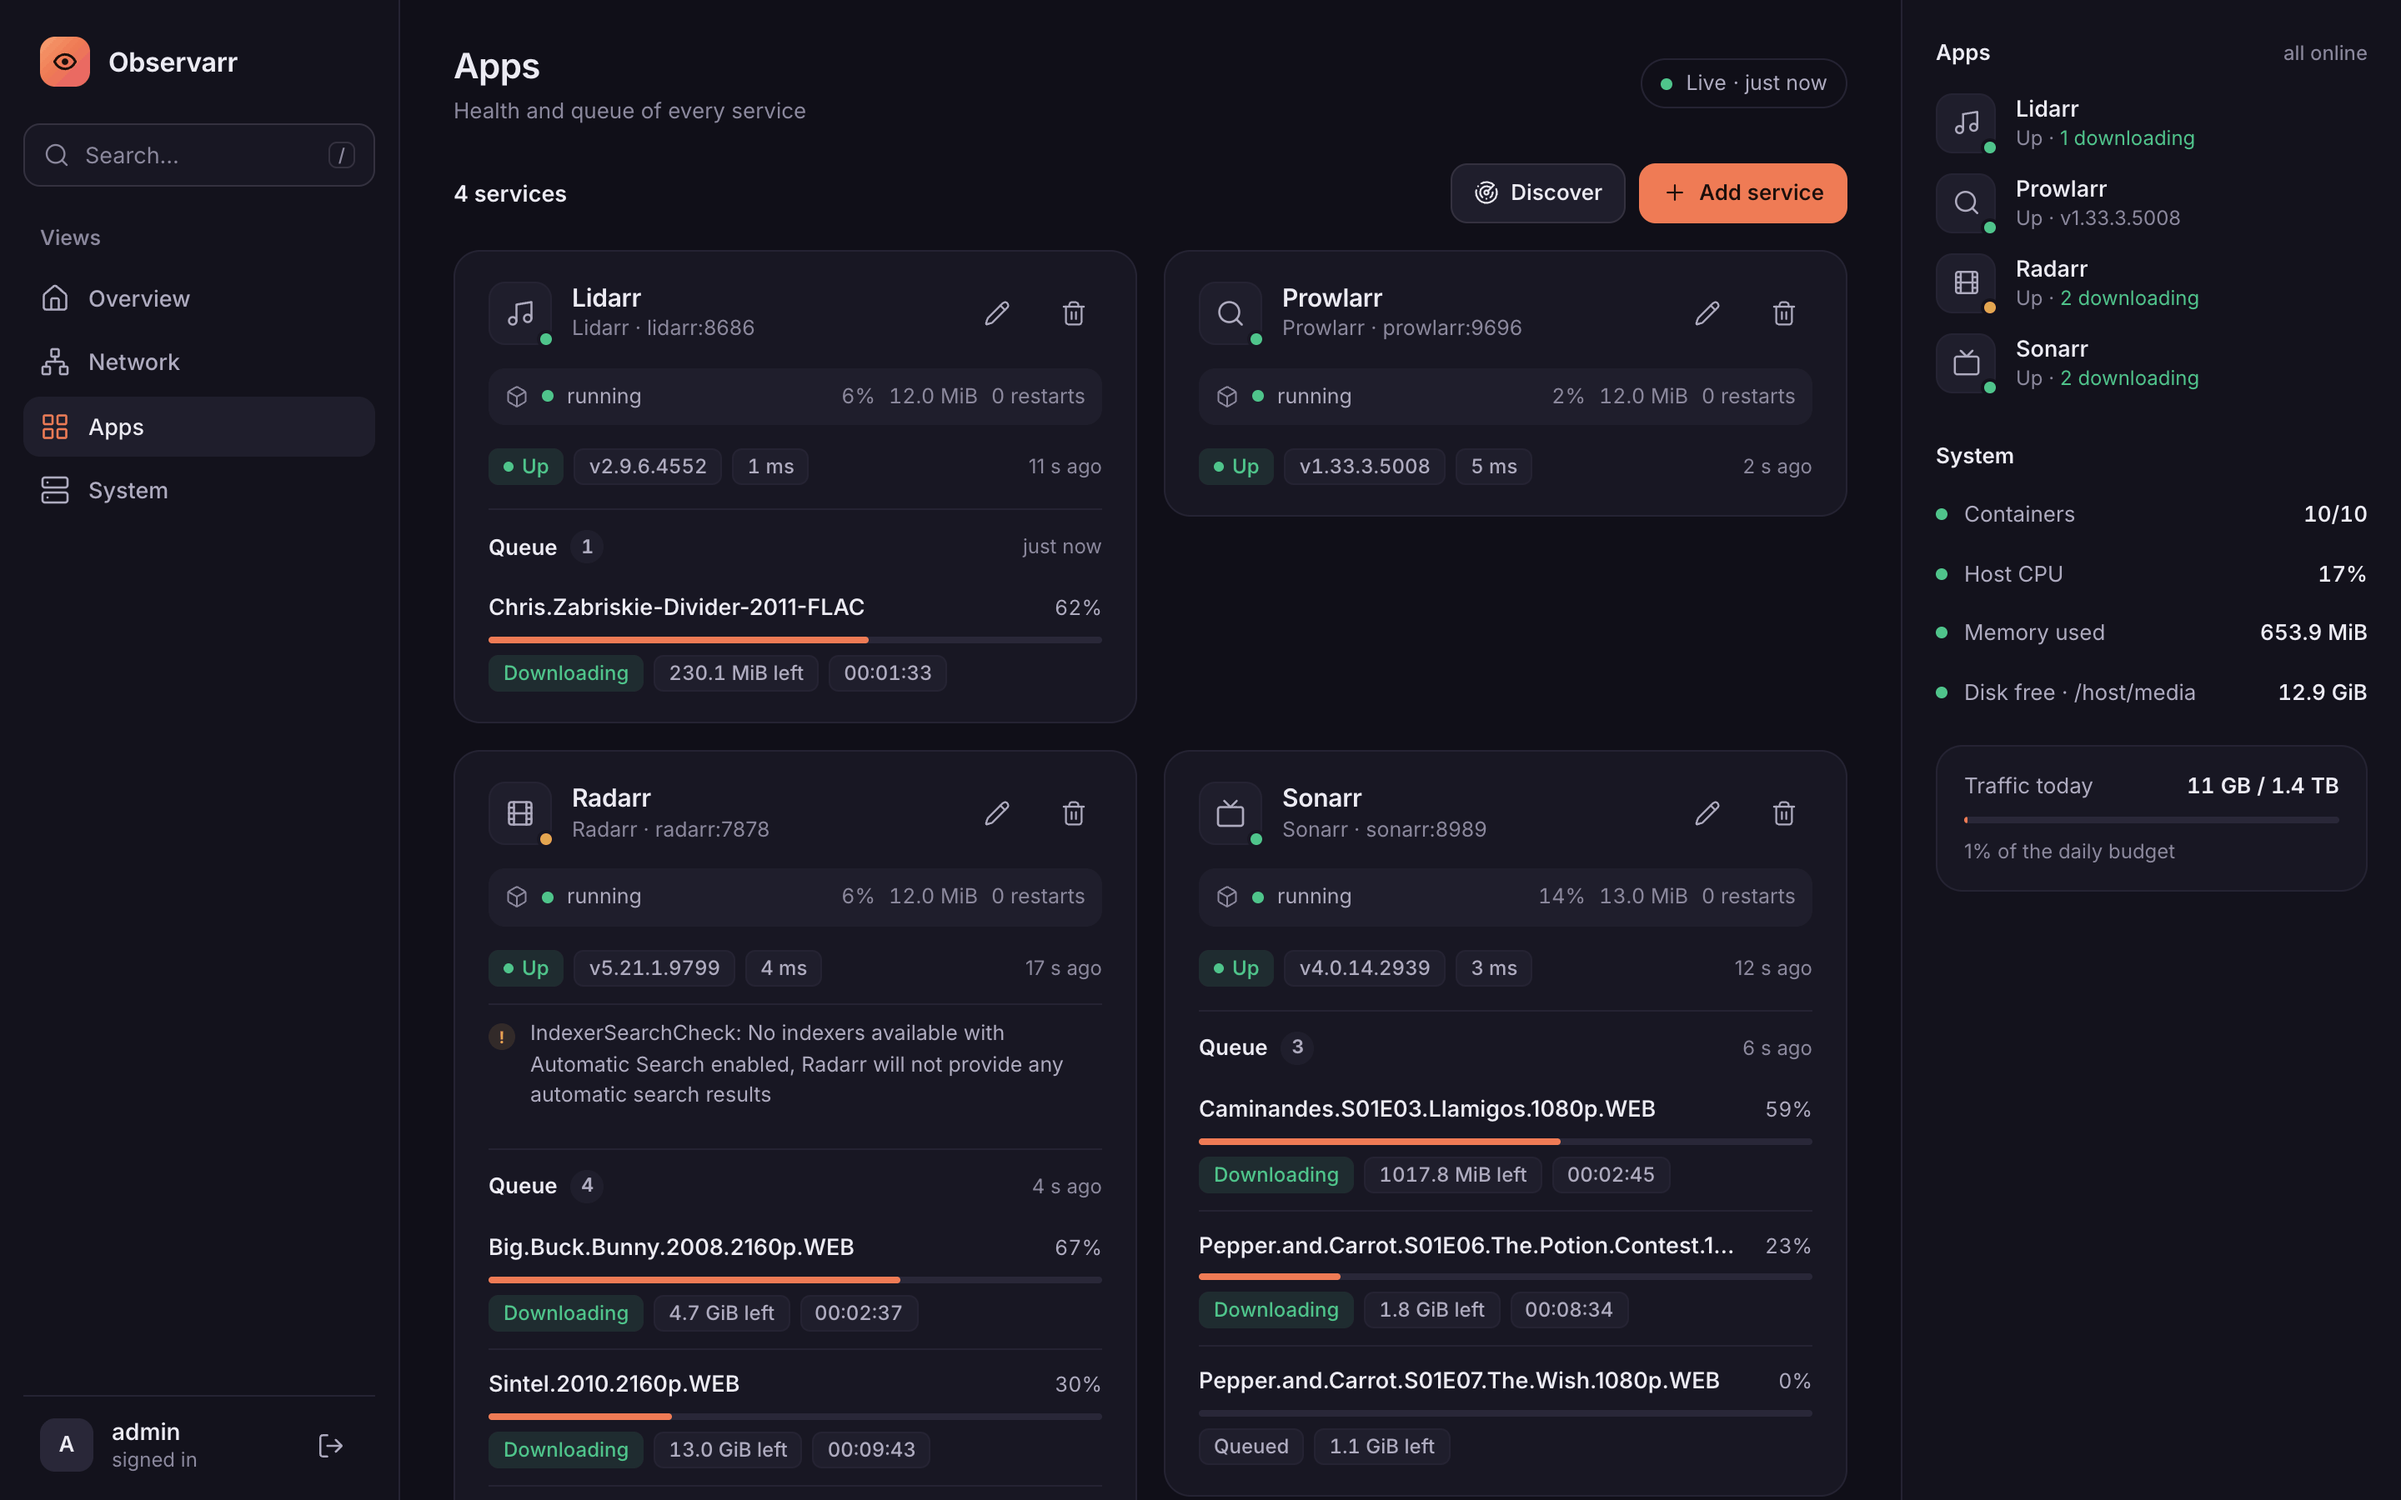
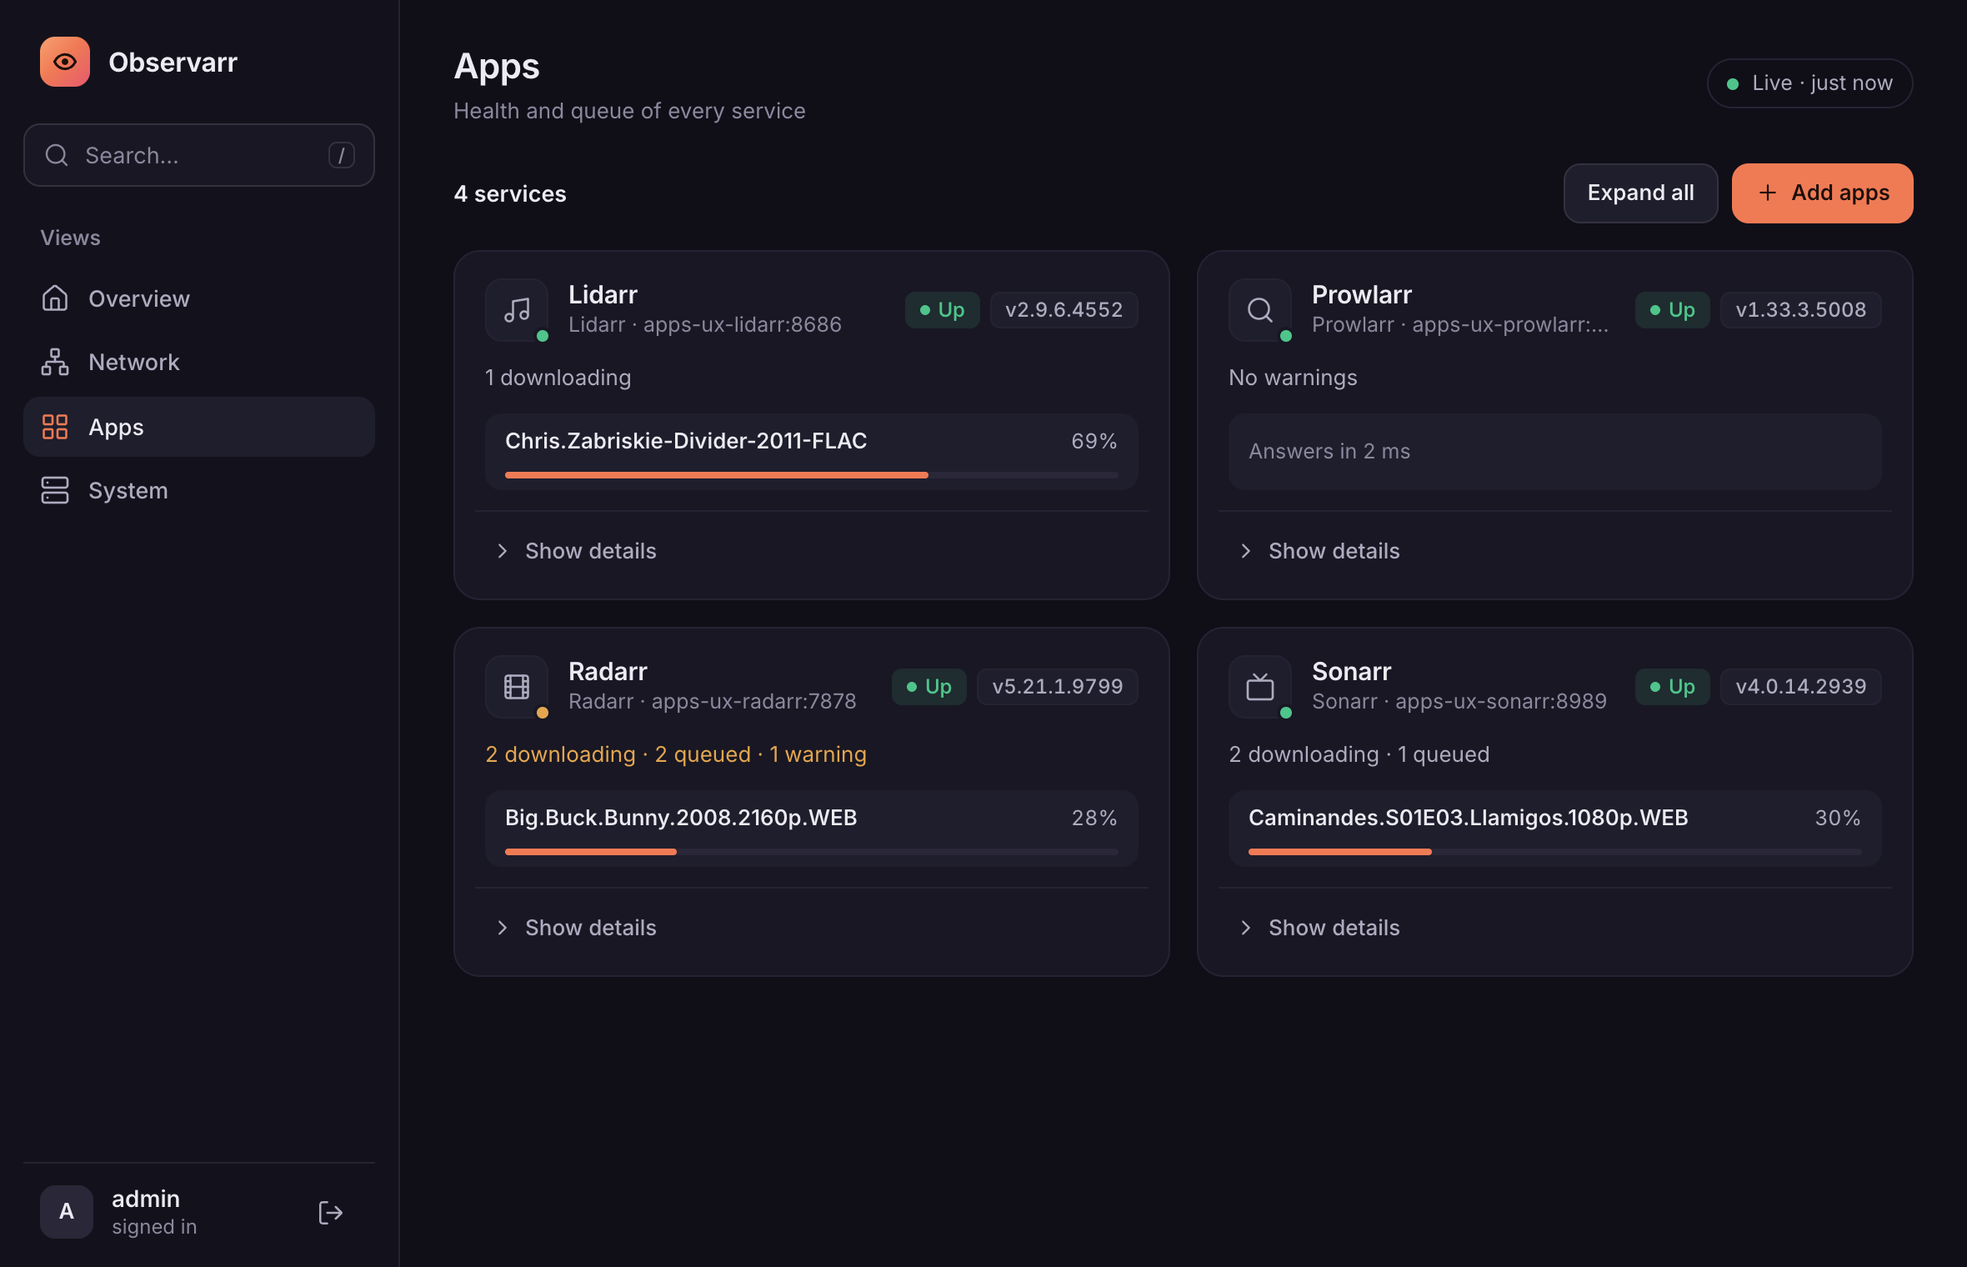
docs: describe the Add apps page and the collapsible cards

diff --git a/README.md b/README.md
@@ -17,8 +17,9 @@ and its containers are doing — all from one small container. Status: early dev
 
 ## Features
 
-- **Discovery that asks first.** Suggests apps from a network scan, Prowlarr's linked apps, mounted config
-  folders or running Docker containers — nothing is added until you review a suggestion and click Add.
+- **Finds your apps, asks first.** Lists the apps it sees on the server — Docker containers and mounted config
+  folders — the moment you open it, without contacting any of them; on request it also scans your network or
+  asks Prowlarr for its linked apps. Nothing is added, and no app is contacted, until you click "Test & add".
 - **Overview at a glance:** live download and upload with the apps moving the most traffic, services up,
   active downloads, host CPU and memory, and one list of everything that needs attention — down services,
   health warnings, stuck downloads.
@@ -42,26 +43,26 @@ and its containers are doing — all from one small container. Status: early dev
 <table>
   <tr>
     <td width="50%"><img src="docs/images/network.png" alt="Network view: download, upload, today's total and top-now tiles, a mirrored stacked chart of where the traffic goes per container over the last five minutes, a By app table and a daily budget gauge"></td>
-    <td width="50%"><img src="docs/images/apps.png" alt="Apps view: cards for Lidarr, Prowlarr, Radarr and Sonarr, each with its container's state and usage, health and version, a Radarr health warning, and download queues led by Big Buck Bunny with progress, size left and ETA"></td>
+    <td width="50%"><img src="docs/images/apps.png" alt="Apps view: four equal-height collapsed cards for Lidarr, Prowlarr, Radarr and Sonarr, each with Up and version chips, a summary line such as 2 downloading, 2 queued, 1 warning, and its leading download with progress"></td>
   </tr>
   <tr>
     <td align="center"><sub>Network: where the traffic goes, by app</sub></td>
-    <td align="center"><sub>Apps: health, queue and container of every service</sub></td>
+    <td align="center"><sub>Apps: one collapsible card per service</sub></td>
   </tr>
   <tr>
     <td><img src="docs/images/system.png" alt="System view: CPU, memory, swap and uptime tiles, a live host activity chart, disk and network cards, and the start of the containers table"></td>
-    <td><img src="docs/images/discover-docker.png" alt="Discover services dialog with the Network, Linked apps, Config folders and Docker sources, and a Lidarr suggestion found in Docker"></td>
+    <td><img src="docs/images/add-apps-found.png" alt="First start: an Add your apps card listing Lidarr, Prowlarr, Radarr and Sonarr found as Docker containers on the server, with Sonarr's inline form open, its API key found in its config folder and a Test and add button"></td>
   </tr>
   <tr>
     <td align="center"><sub>System: host, disks, network and containers</sub></td>
-    <td align="center"><sub>Discover: suggestions from Docker and other sources</sub></td>
+    <td align="center"><sub>First start: the apps found on the server, added in one click each</sub></td>
   </tr>
   <tr>
-    <td><img src="docs/images/add-from-suggestion.png" alt="Add service dialog filled from the Lidarr suggestion, with its container linked and a successful connection test"></td>
+    <td><img src="docs/images/apps-expanded.png" alt="Apps view with the Radarr card expanded across the row: container line, health with a warning, the full queue, and Edit and Remove buttons"></td>
     <td><img src="docs/images/network-24h.png" alt="Network view over the last 24 hours: the per-container traffic chart since the demo started, with the By app table and the daily budget gauge"></td>
   </tr>
   <tr>
-    <td align="center"><sub>Add from a suggestion: test, then add</sub></td>
+    <td align="center"><sub>A card expanded: full health, queue and container</sub></td>
     <td align="center"><sub>Network over 24 hours</sub></td>
   </tr>
 </table>
@@ -95,7 +96,7 @@ just to the page. The token and the file are both deleted once setup succeeds.
 
 ## Run with Docker Compose
 
-For the System view's host and container figures and Docker discovery, use
+For the System view's host and container figures and listing your app containers on the Add apps page, use
 [`deploy/docker-compose.yml`](deploy/docker-compose.yml) (Observarr plus a read-only socket proxy) — see
 [`docs/deploy.md`](docs/deploy.md) for what each source enables and the security notes. No image is published
 yet, so it builds from the repo; adjust the data disk mount first. Its data folder is `deploy/data`; `chown` it
@@ -109,7 +110,28 @@ docker compose -f deploy/docker-compose.yml up -d
 
 ## Adding your apps
 
-Add each app from the Apps view, directly or via **Discover**. You'll need:
+Open **Apps → Add apps** (or just start: with no apps yet, the Apps view lists what it found right away).
+
+- **Found on this server** lists, as soon as the page opens, every running Docker container Observarr
+  recognises and every app config folder it can read (see below). Listing them contacts no app. Click **Add** on
+  a row: name and URL are filled in; enter the API key, or tick "Use the API key found in …" when the app's
+  config folder had one (off by default — the key itself never reaches the browser and only goes to the address
+  where the app was found). **Test & add** checks the app now and adds it in one step; an error shows right in
+  the row. **Dismiss** hides a find for good.
+- **Look elsewhere** (folded away): **Scan my network** probes the hosts or private subnets you list, and
+  **Linked apps** asks the apps you added (Prowlarr) which apps they are connected to. Their finds are added
+  the same way.
+- **Add manually** takes app, name, URL and key; **Test**, then **Add**.
+
+<p align="center">
+  <img src="docs/images/add-apps.png" width="720" alt="Add apps page: Found on this server with a Lidarr container, Look elsewhere with the Scan my network and Linked apps sections, and the Add manually form">
+</p>
+
+Each app card shows its health, a one-line summary and its leading download or warning; **Show details**
+opens the full queue, all warnings, the linked container and Edit/Remove (**Expand all** opens every card; the
+browser remembers which cards are open).
+
+For any of these you'll need:
 
 - **Its API key.** In Sonarr, Radarr, Lidarr and Prowlarr: Settings → General → Security → API Key.
 - **A URL Observarr can reach:**
@@ -134,12 +156,15 @@ networks:
     external: true
 ```
 
-**Docker discovery** suggests every running container whose image is a known \*arr image (LinuxServer.io,
-hotio, or a bare `sonarr`/`radarr`/… repository) or that carries an `observarr.type` label (e.g.
-`observarr.type=sonarr`); an `observarr.url` label overrides the suggested URL.
+**Docker containers** (needs `OBSERVARR_DOCKER_HOST`) are listed when their image is a known \*arr image
+(LinuxServer.io, hotio, or a bare `sonarr`/`radarr`/… repository) or they carry an `observarr.type` label (e.g.
+`observarr.type=sonarr`); the suggested URL is `http://<container name>:<port>`, and an `observarr.url` label
+overrides it.
 
-**Config-folder discovery** reads an app's own `config.xml` to suggest it — including its API key, which never
-leaves the server unless you tick "Use the API key found in …" when adding it. Mount each app's config
+**Config folders** (needs `OBSERVARR_APP_CONFIGS`): Observarr reads an app's own `config.xml` to suggest it —
+including its API key, which never leaves the server unless you tick "Use the API key found in …" when adding
+it. When exactly one container of that app runs on the config's port, the folder's key is offered on that
+container's row (and only sent to that container's address). Mount each app's config
 directory read-only under one parent folder, one subfolder per app, and point `OBSERVARR_APP_CONFIGS` at it:
 
 ```yaml

diff --git a/docs/deploy.md b/docs/deploy.md
@@ -9,7 +9,7 @@ you leave out, Observarr says so in the System view instead of failing.
 | The host's `/proc`, read-only | CPU %, memory, swap, load average, uptime, the host's traffic | `OBSERVARR_HOST_PROC` |
 | Disk paths | Disk usage bars | `OBSERVARR_HOST_DISKS` (comma-separated) |
 | The host's `/sys/fs/cgroup`, read-only | Per-container CPU %, memory, block I/O and traffic | `OBSERVARR_HOST_PROC` + `OBSERVARR_HOST_CGROUP` + `cgroup: host` on the Observarr container (below) |
-| A Docker socket proxy | Container list, state, health, restarts, lifecycle events, and the "Docker" discovery source | `OBSERVARR_DOCKER_HOST` |
+| A Docker socket proxy | Container list, state, health, restarts, lifecycle events, and listing your app containers on the Add apps page | `OBSERVARR_DOCKER_HOST` |
 
 None of this needs a privileged container or write access to anything: every mount below is `:ro`, and the
 socket proxy only ever answers GET requests (Observarr's own Docker client issues no other kind). Read
@@ -59,8 +59,8 @@ services:
       - TZ=Europe/Berlin   # daily traffic totals begin at local midnight
       # - OBSERVARR_TRAFFIC_BUDGET=20TB/month   # optional: show how much of a traffic budget is used
       # - OBSERVARR_INSECURE_COOKIES=1   # only for plain HTTP on a trusted LAN; leave unset behind an HTTPS reverse proxy
-      # Optional: suggests apps from their own config files (see README's "Discovering apps from their config
-      # folders"). Needs one read-only mount per app below.
+      # Optional: lists apps on the Add apps page from their own config files (see README's "Adding your apps").
+      # Needs one read-only mount per app below.
       # - OBSERVARR_APP_CONFIGS=/appconfig
     volumes:
       - ./data:/data

diff --git a/docs/adapters.md b/docs/adapters.md
@@ -206,6 +206,12 @@ package finds them with a type assertion, so an adapter with no unauthenticated 
 to link, or no config file worth reading) simply implements none of them. Nothing in
 `internal/discovery` names an app type.
 
+The Add apps page lists the apps on the server as soon as it opens (`GET /api/discovery/local`,
+`Engine.Local`): it only uses `ImageMatcher` on the sampler's container list and `ConfigReader` on
+the config folders — never `Fingerprint`, `Detect` or any other request to an app. An app is first
+contacted when the user clicks "Test & add" on its row, which is `POST /api/services` with the
+suggestion's id (Detect runs there, as for any add).
+
 ```go
 // Fingerprinter recognises the app without credentials (used by the network scan).
 type Fingerprinter interface {
